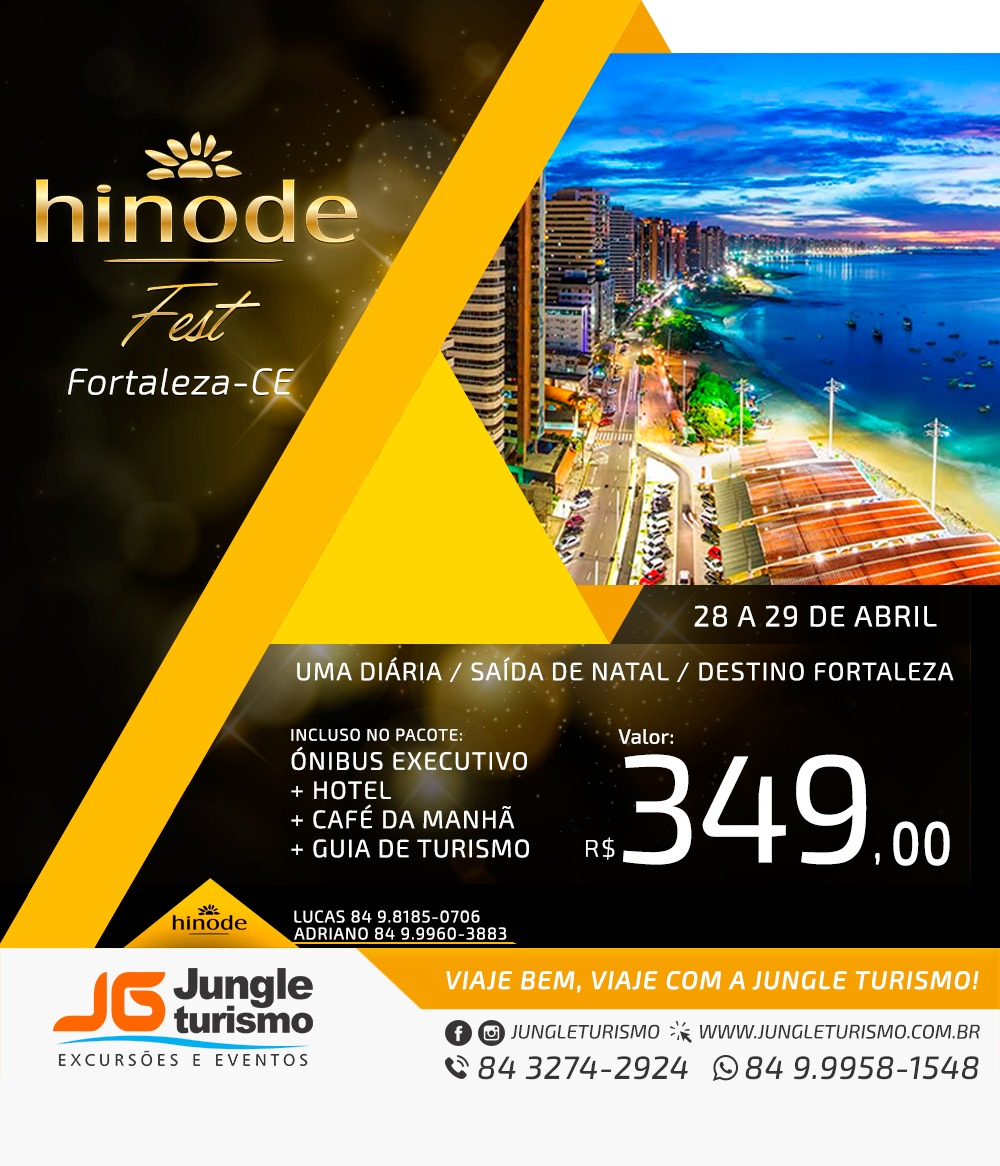
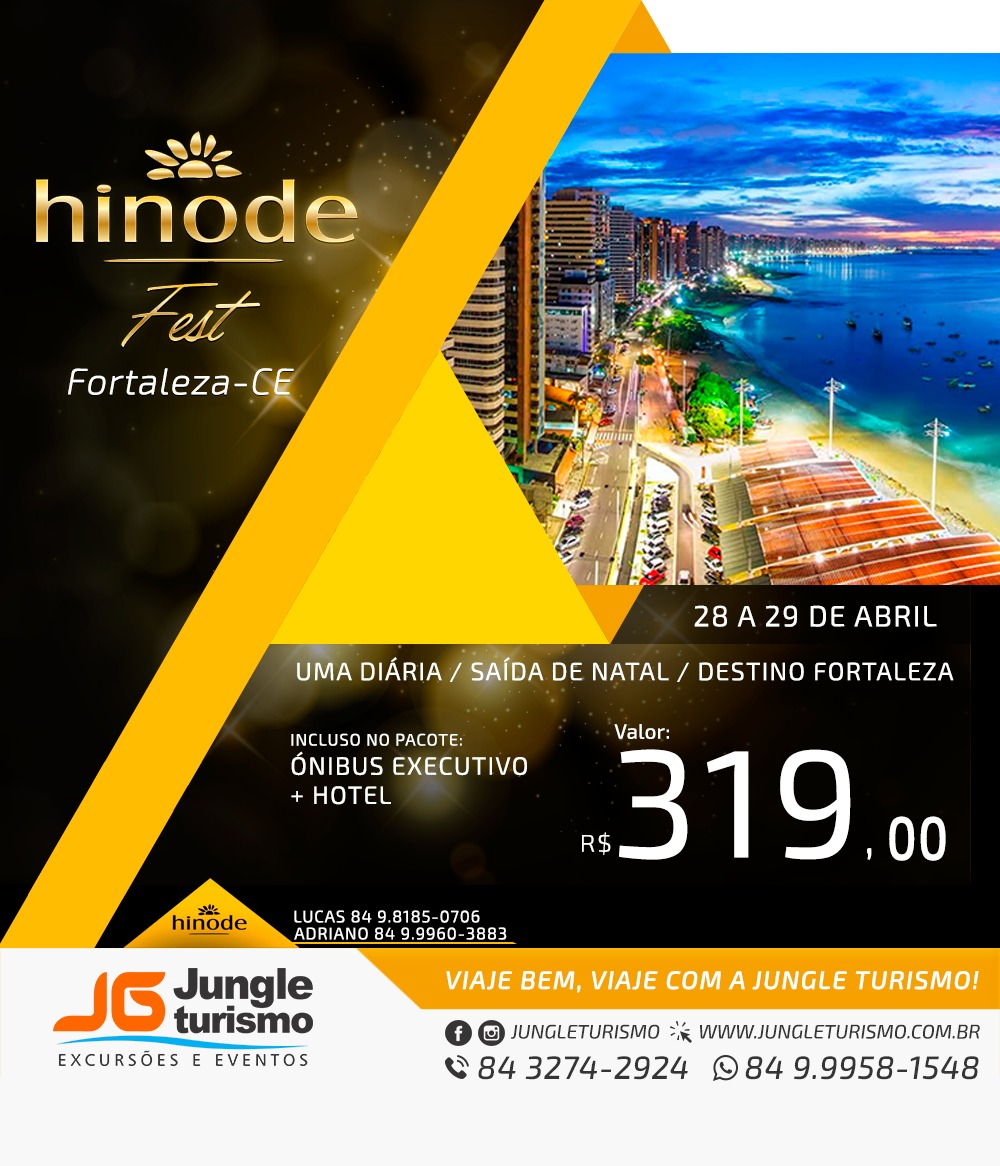
Altera viagem hinode fest, adiciona viagem Bariloche

Changed region(s): [[0.589, 0.6175, 0.961, 0.741], [0.279, 0.6175, 0.527, 0.741]]

diff --git a/bariloche.html b/bariloche.html
@@ -1,0 +1,276 @@
+<!DOCTYPE html>
+<html lang="en">
+
+<head>
+
+    <meta charset="utf-8">
+    <meta http-equiv="X-UA-Compatible" content="IE=edge">
+    <meta name="viewport" content="width=device-width, initial-scale=1">
+    <meta property="og:title" content="Jungle Turismo - Bariloche | Temporada de neve no paraíso!">
+    <meta property="og:site_name" content="Jungle Turismo">
+    <meta property="og:description" content="Confira esta e muitas outras viagens no nosso site. Viaje bem, viaje com a Jungle Turismo!">
+    <meta property="og:author" content="Jungle Turismo">
+    <meta property="og:image" content="http://jungleturismo.com.br/img/bariloche/bariloche.jpeg">
+    <meta property="og:image:type" content="image/jpeg">
+    <meta property="og:image:width" content="1000">
+    <meta property="og:image:height" content="1000">
+
+    <title>Jungle Turismo</title>
+    <link rel="shortcut icon" href="logo_fav.ico"/>
+    <!-- Bootstrap Core CSS -->
+    <link href="css/bootstrap.min.css" rel="stylesheet">
+
+    <!-- Custom CSS -->
+    <link href="css/agency.css" rel="stylesheet">
+
+
+    <!-- Custom Fonts -->
+    <link href="font-awesome/css/font-awesome.min.css" rel="stylesheet" type="text/css">
+    <link href="https://fonts.googleapis.com/css?family=Montserrat:400,700" rel="stylesheet" type="text/css">
+    <link href='https://fonts.googleapis.com/css?family=Kaushan+Script' rel='stylesheet' type='text/css'>
+    <link href='https://fonts.googleapis.com/css?family=Droid+Serif:400,700,400italic,700italic' rel='stylesheet' type='text/css'>
+    <link href='https://fonts.googleapis.com/css?family=Roboto+Slab:400,100,300,700' rel='stylesheet' type='text/css'>
+    <style type="text/css">
+        @font-face{
+            font-family: secret;
+            src: url('fonts/Gravity-Light.otf');
+        }
+        .tit{
+            text-transform: none;
+            color: rgb(30, 60, 108);
+            font-family: secret;
+            font-size: 50px;
+        }
+        p{
+            font-size: 20px;
+        }
+        h3{
+            color: rgb(255, 192, 66);
+        }
+        #fb{
+            border: solid 5px rgb(59, 89, 152);
+            background-color: rgb(59, 89, 152);
+            color: white;
+            text-transform: none;
+            width: 125px;
+            border-radius: 5px;
+        }
+        a:hover{
+            text-decoration: none;
+        }
+        #fb:hover{
+            background-color: white;
+            color: rgb(59, 89, 152);
+        }
+        .img{
+            margin: 3px;
+        }
+        .contato{
+            font-family: secret;
+            font-weight: bold;
+        }
+    </style>
+    <script type="text/javascript">
+        var url_atual = window.location.href;
+        var viagem = "Bariloche";
+        function mudar(){
+        document.getElementById("wpp").href = "whatsapp://send?text=Confira este pacote para "+viagem+": "+url_atual;
+    }
+    </script>
+</head>
+
+<body style="background-color: #f7f7f7;" id="page-top" class="index" onload="mudar()">
+
+    <!-- Navigation -->
+    <nav style="background-color: rgb(30, 60, 108); position: fixed;" class="navbar navbar-default navbar-fixed-top">
+        <div class="container">
+            <!-- Brand and toggle get grouped for better mobile display -->
+            <div class="navbar-header page-scroll">
+                <button type="button" class="navbar-toggle" data-toggle="collapse" data-target="#bs-example-navbar-collapse-1">
+                    <span class="sr-only">Toggle navigation</span>
+                    <span class="icon-bar"></span>
+                    <span class="icon-bar"></span>
+                    <span class="icon-bar"></span>
+                </button>
+                <a class="navbar-brand page-scroll" href="index.html">Jungle Turismo</a> </div>
+
+            <!-- Collect the nav links, forms, and other content for toggling -->
+            <div class="collapse navbar-collapse" id="bs-example-navbar-collapse-1">
+                <ul class="nav navbar-nav navbar-right">
+                    <li  class="hidden">
+                        <a href="#page-top"></a>
+                    </li>
+                    <li>
+                        <a class="page-scroll" href="agencia.html">a agência</a>
+                    </li>
+                    <li>
+                        <a class="page-scroll" href="index.html">Próximas Viagens</a>
+                    </li>
+                    <li>
+                        <a class="page-scroll" href="index.html">Últimas Viagens</a>
+                    </li>
+                    <li>
+                        <a class="page-scroll" href=".footer">Contatos</a>
+                    </li>
+                </ul>
+            </div>
+            <!-- /.navbar-collapse -->
+        </div>
+        <!-- /.container-fluid -->
+    </nav>
+
+    <div style="margin-top: 14%;" class="container">
+        <div class="row">
+            <div style="" class="col-xs-12 col-sm-12 col-md-5 col-lg-5">
+                <img width="100%" src="img/bariloche/bariloche.jpeg">
+            </div>
+            <div style="padding-bottom:20px; background-color: white;" class="col-xs-12 col-sm-12 col-md-7 col-lg-7">
+                 <h1 class="tit"><span id="viagem">Bariloche - Temporada de Neve</span></h1>
+                 <hr>
+                 <h3>PERÍODO:</h3>
+                 <p>08 a 12 de agosto/2018</p>
+                 <h3>PROGRAMAÇÃO:</h3>
+                 <p><b>SAÍDA:</b> Natal/RN<br>
+             </p>
+                 <p>
+                  <b>PACOTE INCLUI:</b><br>
+                  Passagem aérea voando LATAM<br>
+                  4 diárias de hospedagem com café da manhã no Best Western Villa Sofia Apart Hotel, três estrelas<br>
+                  Inclui mala despachada
+                 </p>
+
+                 <hr>
+                 <h1 class="tit">Pagamento</h1>
+                 <hr>
+                 <h3>A partir de 12x:</h3>
+                 <h2 style="color: rgb(30, 60, 108)">R$ 129,00</h2>
+                 <h6>Valor do pacote por pessoa R$ 2.304,00.</h6>
+                 <h6>Formas de pagamento:<br>Cartão<br>Cheque</h6>
+                 <hr>
+                 <h1 class="tit">Contatos</h1>
+                 <hr>
+                 <div style="text-align: center; width: 100%;" class="container">
+                  <img width="50px" src="img/em.png">
+                     <p class="contato" style="clor: rgb(36, 104, 255)">
+                     Email:<br>
+                     <span style="color: rgb(100, 100, 100);">contato.jungleturismo@gmail.com</span>
+                     </p>
+                     <img width="50px" src="img/wpp.png">
+                     <p class="contato">
+                        WhatsApp:<br>
+                        <span style="color: rgb(45, 147, 57)">(84) 99958-1548</span>
+                     </p>
+                     <p class="contato">
+                     <img width="50px" src="img/telefone.png"><br>
+                        Telefones:<br>
+                        <span style="color: rgb(100, 100, 100);">(84) 3274-2924</span><br><br>
+                     </p>
+                     <h3 style="color: rgb(30, 60, 108)">Visite nossa página</h3>
+                     <a target="blank" href="http://facebook.com/jungleturismo"><img width="50px" src="img/fb.png"></a>
+                 </div>
+               <hr>
+               <div style="text-align: center; width: 100%;" class="container">
+                   <h1 class="tit">Compartilhe esse pacote</h1>
+                   <div style="text-align: center; width: 50%;" class="container">
+                    <div class="row">
+                       <div class="col-xs-4 col-sm-4 col-md-4 col-lg-4">
+                         <a href="#"><img width="50px" src="img/impressora.png"></a>
+                       </div>
+                       <div class="col-xs-4 col-sm-4 col-md-4 col-lg-4">
+                         <a id="wpp" href=""><img width="50px" src="img/wpp2.png"></a>
+                       </div>
+                       <div class="col-xs-4 col-sm-4 col-md-4 col-lg-4">
+                         <div class="fb-share-button" data-href="http://jungleturismo.com.br/bariloche.html" data-layout="button_count" data-size="large" data-mobile-iframe="true"><a class="fb-xfbml-parse-ignore" target="_blank" href="https://www.facebook.com/sharer/sharer.php?u=http%3A%2F%2Fjungleturismo.com.br%2Fbariloche.html&amp;src=sdkpreparse"><img width="50px" src="img/fb2.png"></a></div>
+                       </div>
+
+                        </div>
+                    </div>
+                </div>
+                    <div  class="col-md-6">
+
+                    </div>
+                    <div class="col-md-6">
+
+                    </div>
+               </div>
+            </div>
+        </div>
+    </div>
+    <hr>
+    <footer class="footer">
+        <div class="container">
+          <div class="row">
+                <div class="col-xs-3 col-sm-3 col-md-3 col-lg-3">
+                    <img width="80%" src="img/abav.png">
+                </div>
+            <div class="col-xs-3 col-sm-3 col-md-3 col-lg-3">
+              <img width="70%" src="img/foco-op.png">
+            </div>
+            <div class="col-xs-3 col-sm-3 col-md-3 col-lg-3">
+              <img width="80%" src="img/embratur.png">
+            </div>
+                <div class="col-xs-3 col-sm-3 col-md-3 col-lg-3">
+                    <img width="120%" src="img/ministerio.png">
+                </div>
+            </div>
+          <hr>
+            <div class="row">
+                <div class="col-md-5">
+                    <ul class="list-inline quicklinks">
+                        <li>Jungle Turismo 2016
+                        </li><br>
+                        <li>CNPJ 25.989.749/0001-34</li>
+                    </ul>
+                </div>
+                <div class="col-md-1">
+                    <ul class="list-inline social-buttons">
+                        <li><a target="blank" href="http://facebook.com/jungleturismo"><i class="fa fa-facebook"></i></a>
+                        </li>
+                    </ul>
+                </div>
+                <div class="col-md-6">
+                    <ul class="list-inline quicklinks">
+                        <li>contato.jungleturismo@gmail.com
+                        </li>
+                        <li>Fone: (84) 3274-2924/(84) 99958-1548   <img style="margin-top: -8px" width="8%" src="img/whatsapp-logo.png"></li>
+                        <li>Rua Manoel Francisco Sobral, 381 - Centro, Ceará-Mirim/RN</li>
+                    </ul>
+                </div>
+            </div>
+        </div>
+    </footer>
+
+    <!-- Facebook -->
+    <script>(function(d, s, id) {
+      var js, fjs = d.getElementsByTagName(s)[0];
+      if (d.getElementById(id)) return;
+      js = d.createElement(s); js.id = id;
+      js.src = "//connect.facebook.net/pt_BR/sdk.js#xfbml=1&version=v2.7";
+      fjs.parentNode.insertBefore(js, fjs);
+    }(document, 'script', 'facebook-jssdk'));
+    </script>
+
+    <!-- jQuery -->
+    <script src="js/jquery.js"></script>
+
+    <!-- Bootstrap Core JavaScript -->
+    <script src="js/bootstrap.min.js"></script>
+
+    <!-- Plugin JavaScript -->
+
+    <script src="http://cdnjs.cloudflare.com/ajax/libs/jquery-easing/1.3/jquery.easing.min.js"></script>
+    <script src="js/classie.js"></script>
+    <script src="js/cbpAnimatedHeader.js"></script>
+    <script src="//ajax.googleapis.com/ajax/libs/jquery/1.11.3/jquery.min.js"></script>
+
+
+    <!-- Contact Form JavaScript -->
+    <script src="js/jqBootstrapValidation.js"></script>
+    <script src="js/contact_me.js"></script>
+
+    <!-- Custom Theme JavaScript -->
+    <script src="js/agency.js"></script>
+
+</body>
+
+</html>

diff --git a/index.html b/index.html
@@ -220,26 +220,26 @@
 	                    <div style="padding: 0;" class="col-md-8">
 	                    	<div id="carousel-id" class="carousel slide" data-ride="carousel" data-interval="3200">
 	                    		<div class="carousel-inner">
-	                    			<div class="item">
-	                    				<img src="img/carnaval-buenos-aires/carnaval2.jpg" width="100%">
-	                    			</div>
-	                    			<div class="item">
-	                    				<img src="img/carnaval-buenos-aires/carnaval3.jpg" width="100%">
-	                    			</div>
 	                    			<div class="item active">
-	                    				<img src="img/carnaval-buenos-aires/carnaval6.jpg" width="100%">
+	                    				<img src="img/bariloche/bariloche1.jpg" width="100%">
 	                    			</div>
 	                    			<div class="item">
-	                    				<img src="img/carnaval-buenos-aires/carnaval4.jpg" width="100%">
+	                    				<img src="img/bariloche/bariloche4.jpg" width="100%">
 	                    			</div>
+                                    <div class="item">
+                                        <img src="img/bariloche/bariloche2.jpeg" width="100%">
+                                    </div>
+                                    <div class="item">
+                                        <img src="img/bariloche/bariloche3.jpg" width="100%">
+                                    </div>
 	                    		</div>
 	                    	</div>
 	                    </div>
 	                    <div style="max-height: 100%; padding-top: 1%;" class="col-md-4">
 	                    	<div style="text-align: center; text-transform: none;" align="center" class="row">
-	                    		<p><h4 style="font-size: 25px;">Carnaval Buenos Aires</h4>
-	                    		<p style="font-size: 18px;">Um carnaval diferente</p>
-	                    		<a href="carnaval-buenos-aires.html"><button type="button" style="padding: 10px 30px 10px 30px;font-size: 20px; background-color: rgb(255, 193, 66); border-color: rgb(255, 193, 66);" class="btn btn-lg btn-success">Quero Ir!</button></a></p>
+	                    		<p><h4 style="font-size: 25px;">Bariloche</h4>
+	                    		<p style="font-size: 18px;">Temporada de neve</p>
+	                    		<a href="bariloche.html"><button type="button" style="padding: 10px 30px 10px 30px;font-size: 20px; background-color: rgb(255, 193, 66); border-color: rgb(255, 193, 66);" class="btn btn-lg btn-success">Quero Ir!</button></a></p>
 	                    	</div>
 	                    </div>
                     </div>
@@ -571,10 +571,10 @@
                             <div id="carousel-id" class="carousel slide" data-ride="carousel" data-interval="3200">
                                 <div class="carousel-inner">
                                     <div class="item active">
-                                        <img src="img/hinode-fest/hinode2.jpeg" width="100%">
+                                        <img src="img/hinode-fest/hinode2.jpg" width="100%">
                                     </div>
                                     <div class="item">
-                                        <img src="img/hinode-fest/hinode3.jpeg" width="100%">
+                                        <img src="img/hinode-fest/hinode3.jpg" width="100%">
                                     </div>
                                 </div>
                             </div>

diff --git a/hinode-fest.html b/hinode-fest.html
@@ -137,8 +137,6 @@
                   <b>PACOTE INCLUI:</b><br>
                   Ônibus executivo<br>
                   Hotel<br>
-                  Café da manhã<br>
-                  Guia de turismo
                  </p>
 
                  <hr>
